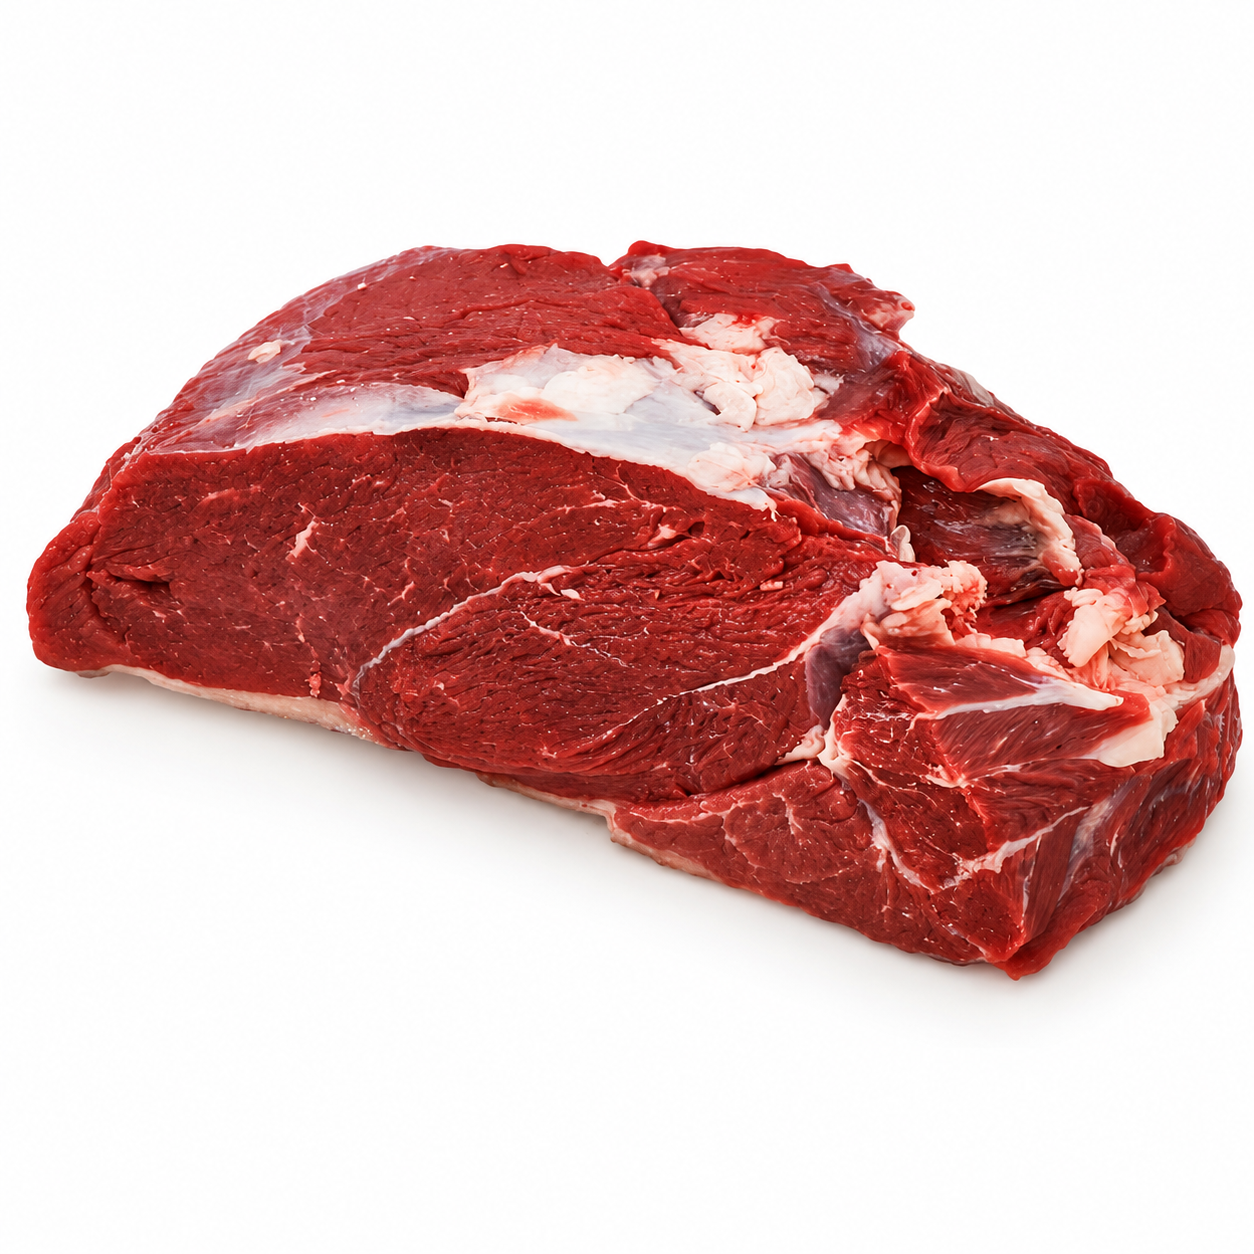
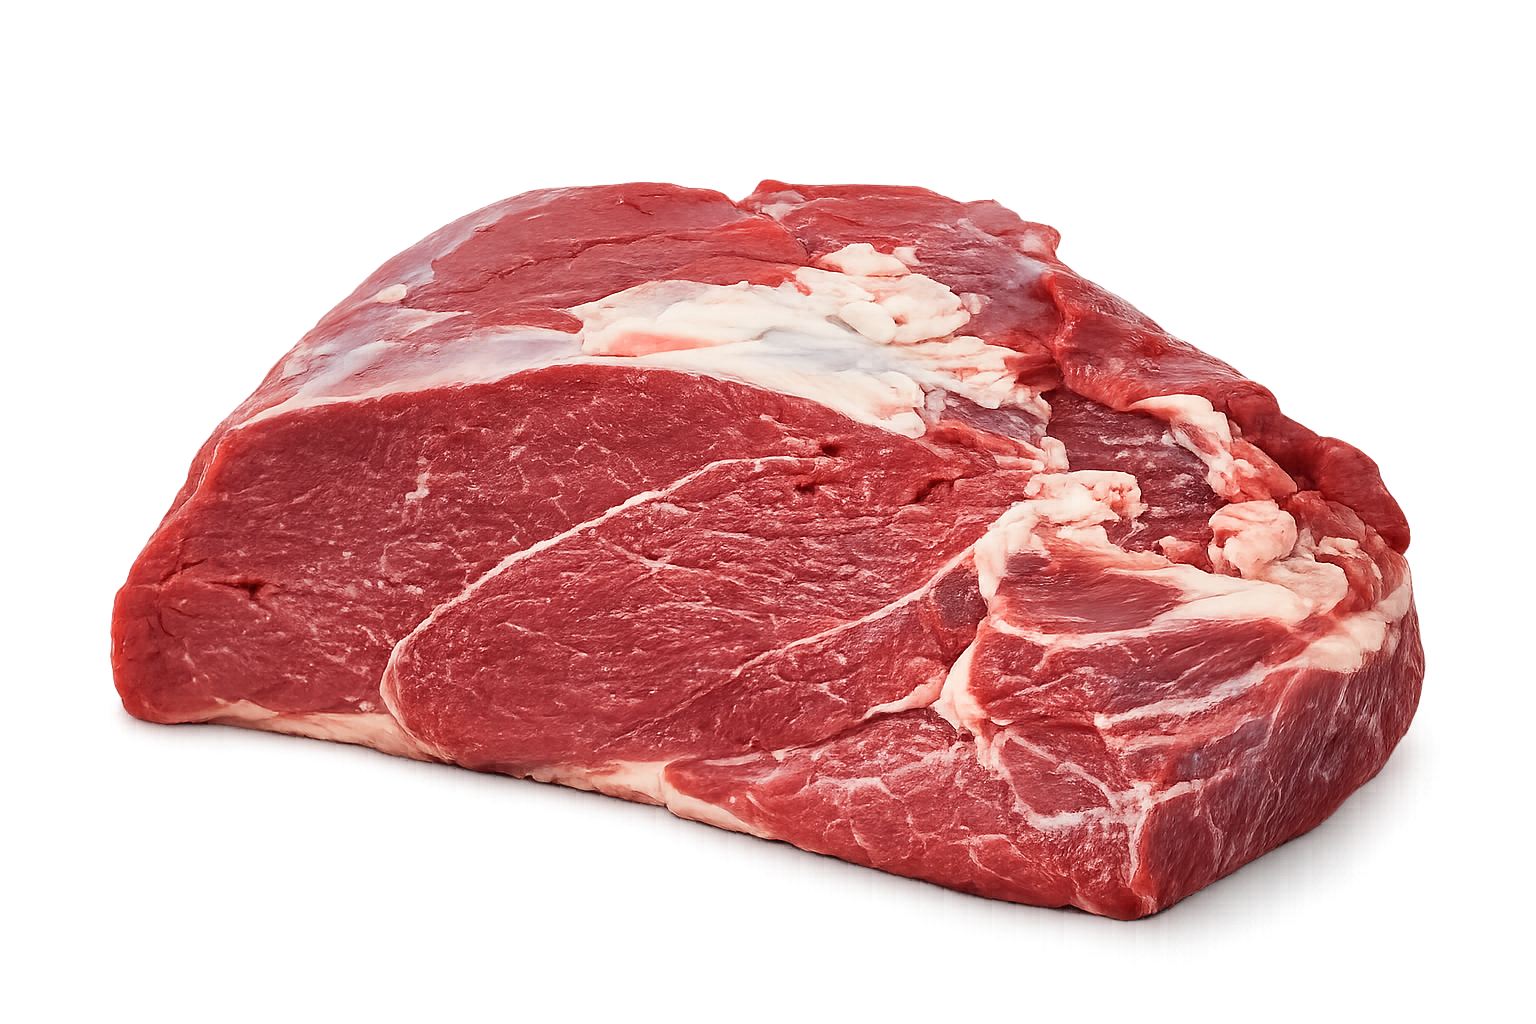
feat: add guidelines for protecting Google Sheets structure to prevent parsing errors; include potential solutions and alternatives

diff --git a/docs/progreso.md b/docs/progreso.md
@@ -221,6 +221,30 @@ listo para vender en su estado actual.
 Estas no salen del análisis original — son extensiones posibles si
 aparece un caso de uso real:
 
+- **Proteger la estructura de columnas del Sheets** (alta
+  prioridad cuando haya muchos clientes). Sheets es muy sensible:
+  un `Tab` extra, un paste mal hecho, o arrastrar el cursor por
+  error pueden desplazar una columna entera sin que el cliente lo
+  note, rompiendo el parser que exige headers contiguos.
+  - Caso real ya visto (25/05/2026): se insertó una celda vacía
+    entre `Precio` y `Unidad` en dos tablas del listado de
+    productos. Las tablas dejaron de renderizar. Detectado y
+    arreglado a mano, pero es exactamente el tipo de error que un
+    cliente final no sabe diagnosticar.
+  - Solución: aplicar **rangos protegidos** sobre la pestaña de
+    productos y la de ofertas. Hoy el proyecto usa el modelo
+    "publicar CSV" sin credenciales, así que la protección habría
+    que aplicarla manualmente en cada planilla. Para automatizarlo
+    hace falta migrar a la **Sheets API con service account**
+    (más infra, más costo de setup por cliente). Por eso queda para
+    cuando el volumen de clientes lo justifique.
+  - Alternativa intermedia: dar al cliente un **template con
+    rangos ya protegidos** que tenga que copiar tal cual. Cero
+    código nuestro, pero exige disciplina en el onboarding.
+  - Otra alternativa intermedia: hacer el parser **tolerante a una
+    celda vacía** entre `Precio` y `Unidad` (cambio chico en
+    `findProductosTableOffsets`). Pros: nunca rompe por este error.
+    Contras: enmascara otros errores de estructura.
 - **Theming dinámico**: las CSS variables ya están en `.screen`, así
   que basta con aceptar un prop `paleta` en `PantallaRotativa` y
   derivar `screenVars` desde ahí. Util si se vende a múltiples